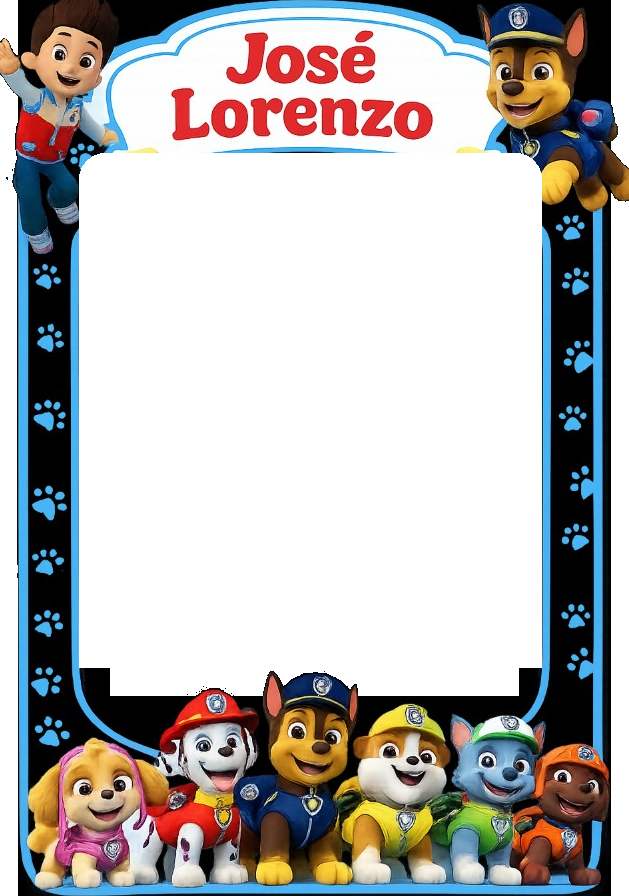
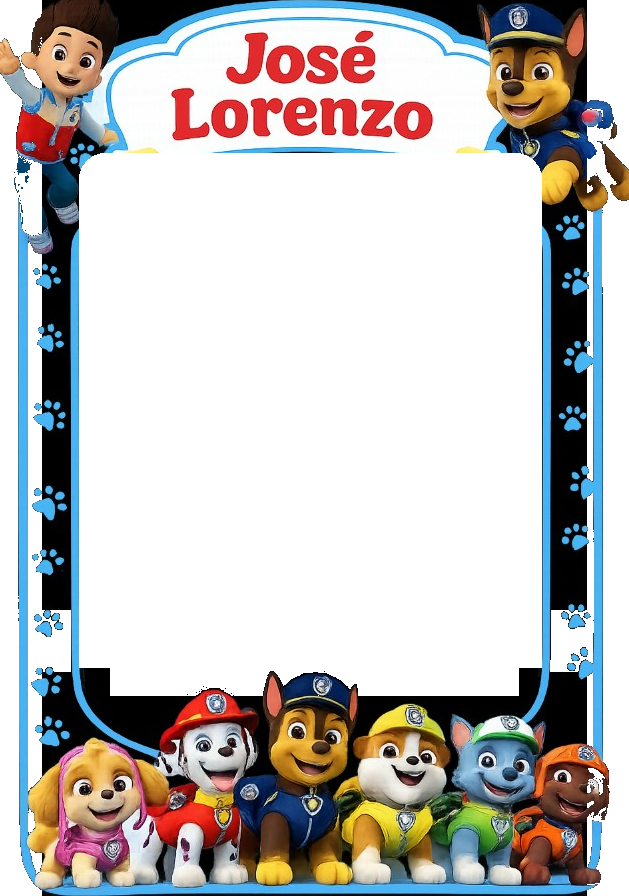
fix(foto): faixas pretas laterais da moldura em branco

diff --git a/index.html b/index.html
@@ -850,7 +850,7 @@
     <section class="qr-section" aria-labelledby="qr-title">
       <h3 id="qr-title">📷 Foto da missão</h3>
       <p>Tire uma foto com a moldura da Patrulha Canina!</p>
-      <a class="btn-camera" id="qr-camera-link" href="foto.html?v=12">Abrir câmera temática</a>
+      <a class="btn-camera" id="qr-camera-link" href="foto.html?v=13">Abrir câmera temática</a>
     </section>
 
     <section class="mission" aria-label="Mensagem da turma">
@@ -953,7 +953,7 @@
 
       var cameraLink = document.getElementById("qr-camera-link");
       if (cameraLink) {
-        cameraLink.href = new URL("foto.html?v=12", window.location.href).href;
+        cameraLink.href = new URL("foto.html?v=13", window.location.href).href;
       }
 
       function hideOverlay() {

diff --git a/foto.html b/foto.html
@@ -243,7 +243,7 @@
       <img
         id="frame-overlay"
         class="frame-overlay"
-        src="assets/moldura-patrulha.png?v=10"
+        src="assets/moldura-patrulha.png?v=11"
         alt=""
         aria-hidden="true"
         decoding="async"
@@ -307,7 +307,7 @@
         }
       }
 
-      var FRAME_SRC = "assets/moldura-patrulha.png?v=10";
+      var FRAME_SRC = "assets/moldura-patrulha.png?v=11";
       var FRAME_W = 629;
       var FRAME_H = 896;
       var VIDEO_FOCUS_Y = 0.4;
